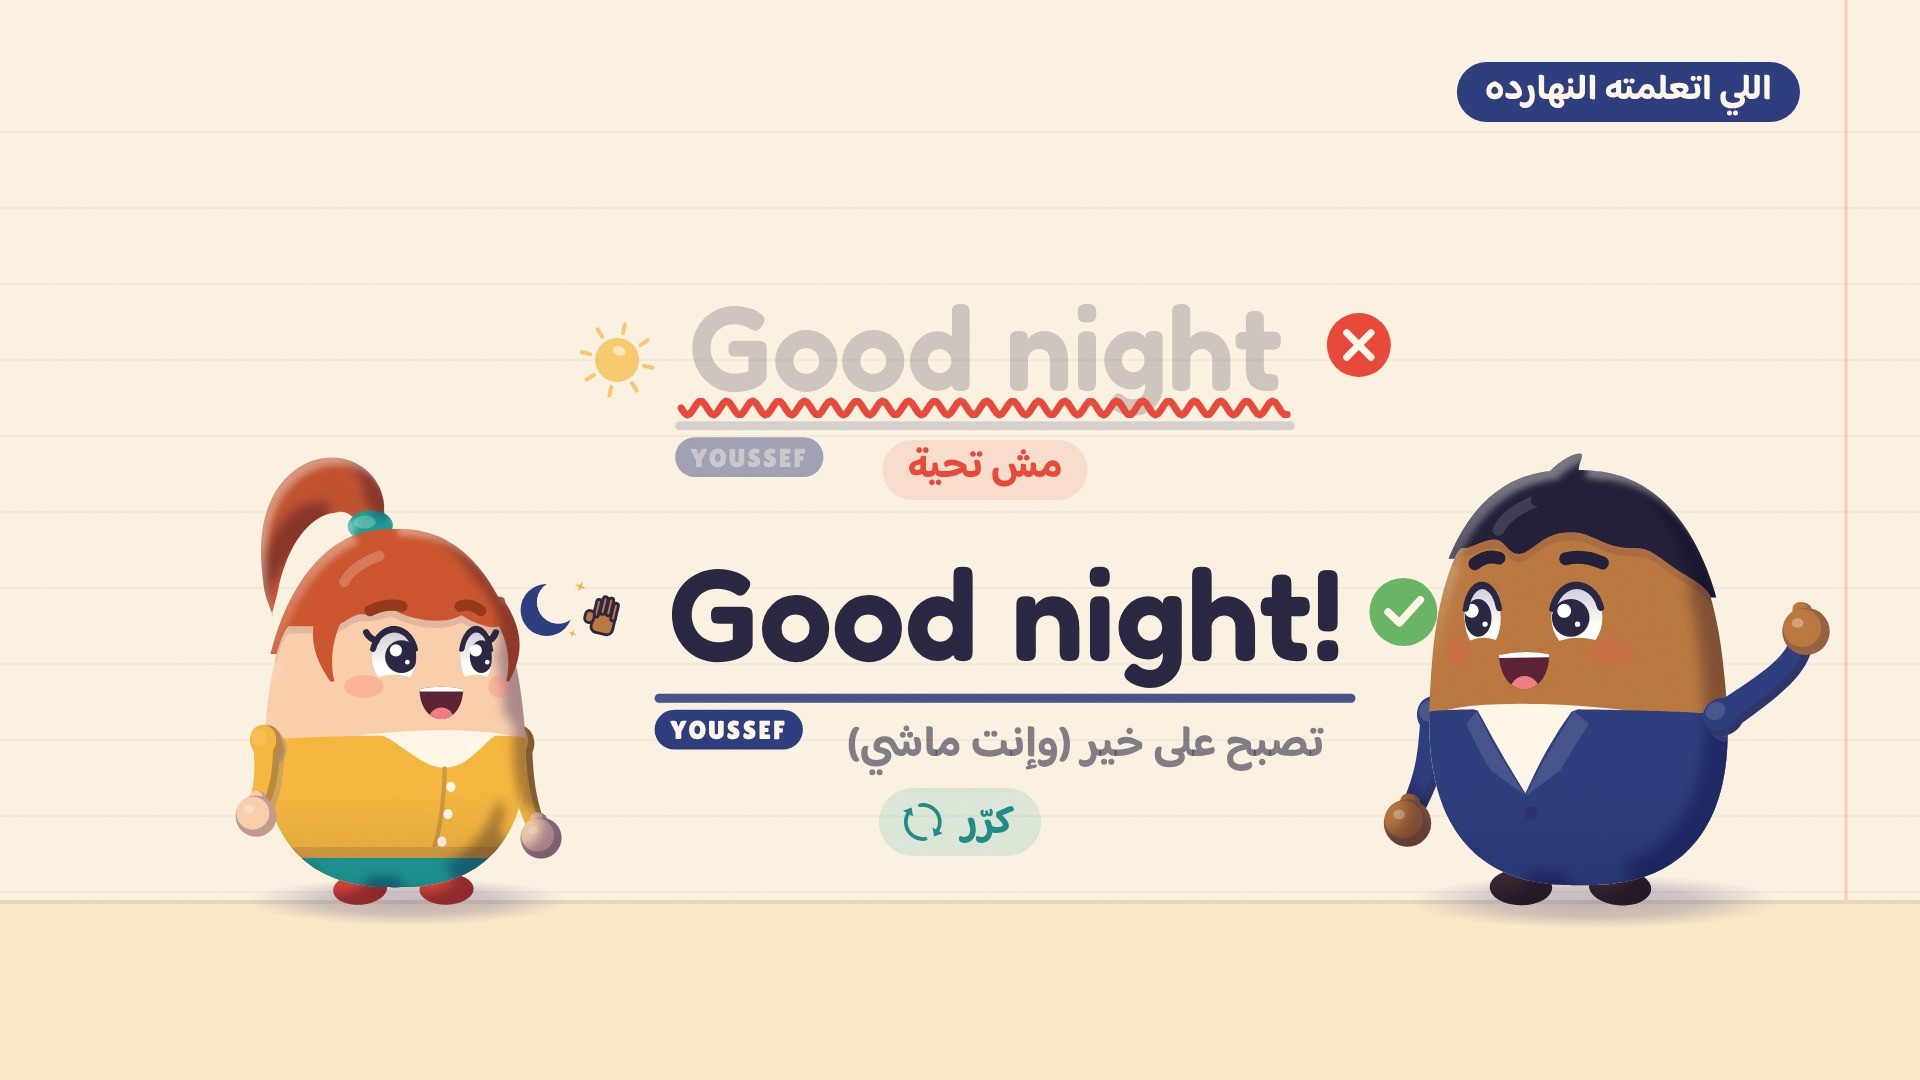
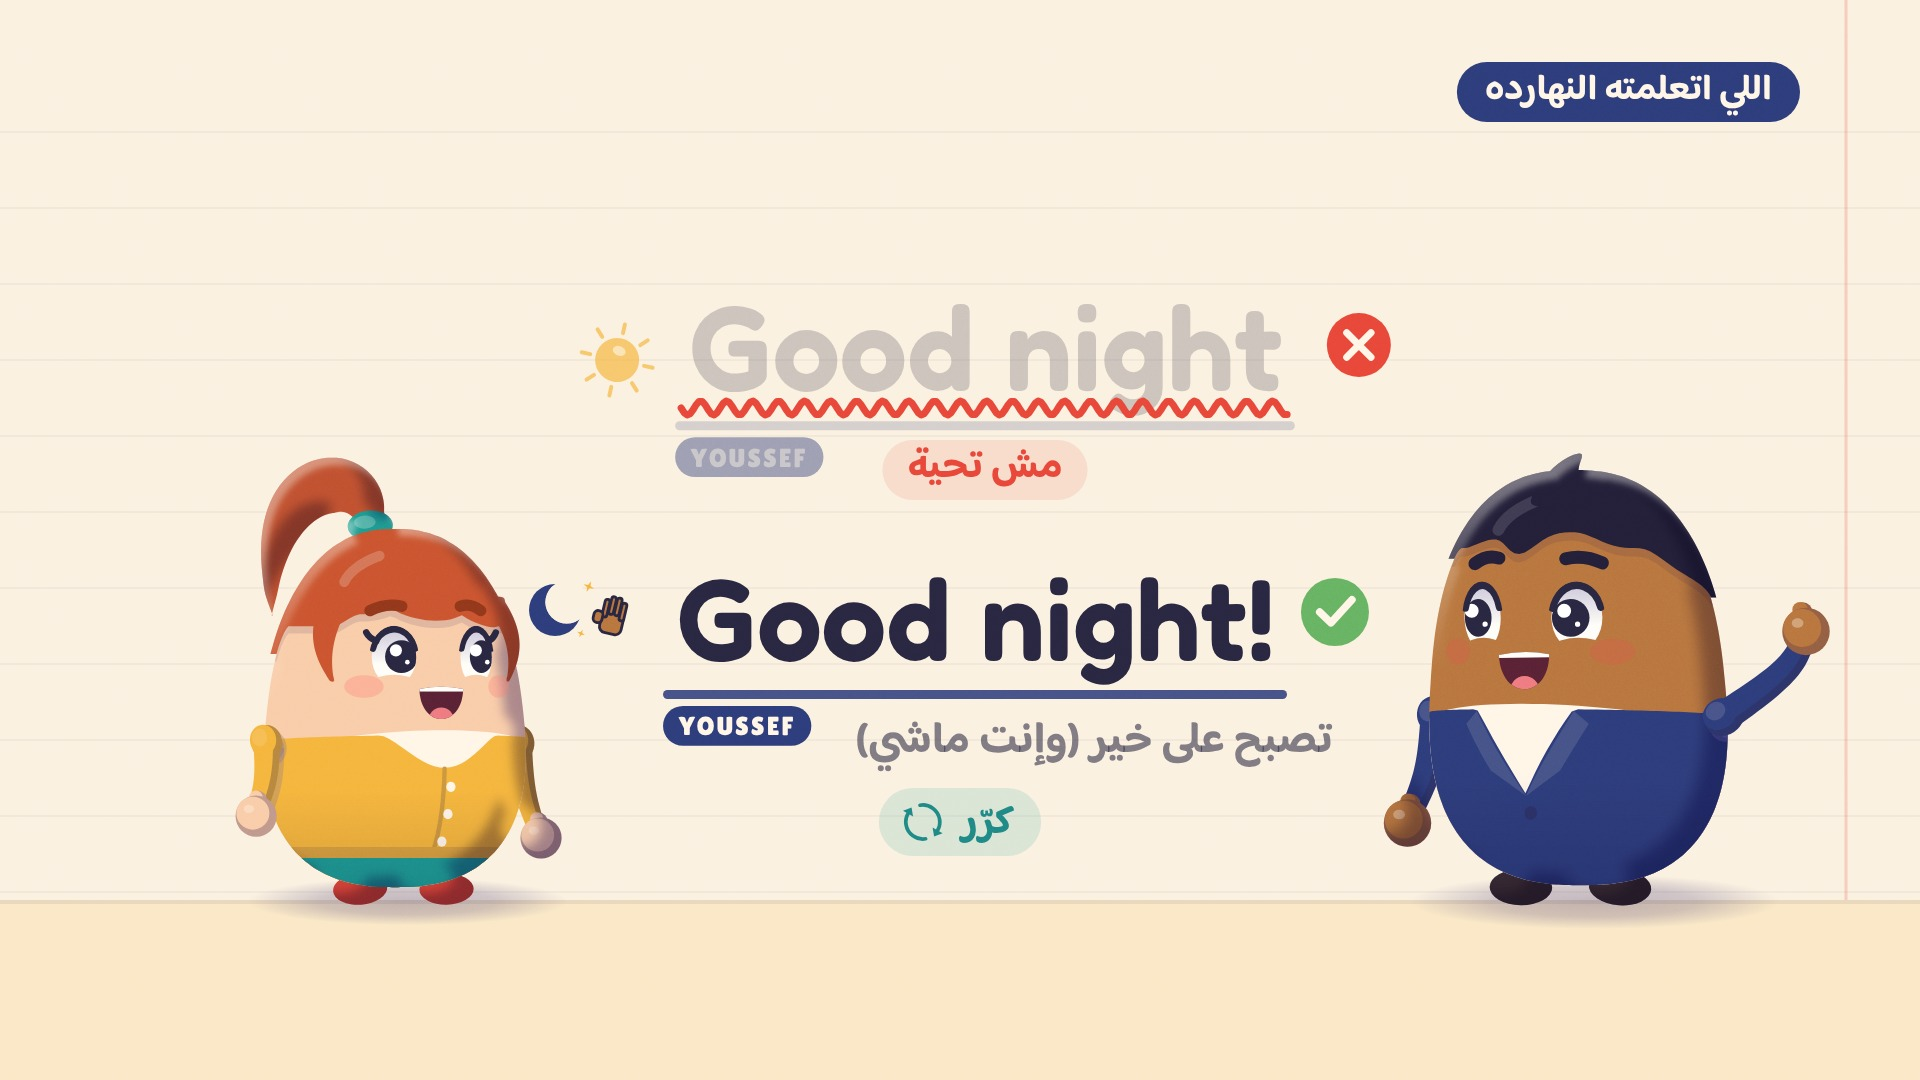
WIP: QA fixes, episodes 3–4 and site refresh in progress
Claude-Session: https://claude.ai/code/session_01Ey97nqMLT4oVRE1erYCZ22

Changed region(s): [[0.25, 0.5194, 0.75, 0.7333]]

diff --git a/production/ep03-the-form/recap.js b/production/ep03-the-form/recap.js
@@ -267,9 +267,9 @@ function numCard(c, x, y, w, h, num, word, { k = 1, ghost = 0, cur = 0, hi = nul
   rr(c, -w / 2, -h / 2 + 8, w, h, 22); c.fillStyle = rgba('#2A2742', .12); c.fill();
   rr(c, -w / 2, -h / 2, w, h, 22); c.fillStyle = cur > 0 ? mix('#FFFDF8', P.mustard, .35 * cur) : '#FFFDF8'; c.fill();
   c.strokeStyle = cur > 0 ? rgba(P.mustard, cur) : rgba(P.ink, .1); c.lineWidth = 4; c.stroke();
-  c.font = '400 84px "Lilita One"'; c.textAlign = 'center'; c.textBaseline = 'alphabetic'; c.fillStyle = P.navy; c.fillText(num, 0, h * .12);
+  c.font = `400 ${num.length > 2 ? 78 : 96}px "Lilita One"`; c.textAlign = 'center'; c.textBaseline = 'alphabetic'; c.fillStyle = P.navy; c.fillText(num, 0, h * .14);
   // the word, fitted to the card, with an optional coloured ending (-teen / -ty)
-  let fs = 30; c.font = `600 ${fs}px "Fredoka"`; let ww = c.measureText(word).width; if (ww > w - 16) { fs = fs * (w - 16) / ww; c.font = `600 ${fs}px "Fredoka"`; ww = c.measureText(word).width; }
+  let fs = 34; c.font = `600 ${fs}px "Fredoka"`; let ww = c.measureText(word).width; if (ww > w - 16) { fs = fs * (w - 16) / ww; c.font = `600 ${fs}px "Fredoka"`; ww = c.measureText(word).width; }
   const by = h * .38;
   if (hi) {
     const [i0, col] = hi, A = word.slice(0, i0), B = word.slice(i0), wa = c.measureText(A).width;
@@ -281,7 +281,7 @@ function numCard(c, x, y, w, h, num, word, { k = 1, ghost = 0, cur = 0, hi = nul
 }
 // a grid of number cards keyed to a counting line: map[i] = the token that says card i (or -1: shown muted from the start)
 function countGrid(c, t, a, it, nums, words, lineId, map, { hiFrom = null, hiCol = P.red, hiT = 1e9, rows = [5, 5] } = {}) {
-  const l = LINE(lineId), W = 140, Hc = 178, G = 18, ys = [360, 586];
+  const l = LINE(lineId), W = 150, Hc = 208, G = 18, ys = [370, 640];
   let n = 0;
   rows.forEach((cnt, r) => {
     const rowW = cnt * W + (cnt - 1) * G;
@@ -354,16 +354,16 @@ const ITEM = {
   age(c, t, a, it) {
     const q = fromLine('r05'), r05 = LINE('r05');
     const hi = seg(t, R.tHowOld - .1, R.tHowOld + .2) * (1 - seg(t, (r05 ? r05.t0 : R.tHowOld + 3) - .3, r05 ? r05.t0 : R.tHowOld + 3));
-    drawRow(c, t, q, { x: CX, y: 290, size: 104, who: 'mia', alpha: a, ghost: it.t0, mean: 'عندك كام سنة؟', meanHi: hi, meanSize: 44 });
+    drawRow(c, t, q, { x: CX - 20, y: 280, size: fit(q, 104, 740), who: 'mia', alpha: a, ghost: it.t0, mean: 'عندك كام سنة؟', meanHi: hi, meanSize: 44 });
     const s = seg(t, R.tSay - .1, R.tSay + .2);
     [['r06', 'عندي 26 سنة.'], ['r07', 'عندي 26 سنة. (نفس المعنى)']].forEach(([id, mean], i) => {
-      const items = fromLine(id), size = fit(items, 110, 800);
-      drawRow(c, t, items.map(o => ({ ...o, mark: /^I'm$/.test(o.w) ? eo(s) * (1 - seg(t, (LINE(id) ? LINE(id).t0 : 1e9) - .2, LINE(id) ? LINE(id).t0 : 1e9)) : 0 })), { x: CX, y: 500 + i * 200, size, who: 'youssef', alpha: a, ghost: it.t0 + .2, mean, meanSize: 40 });
+      const items = fromLine(id), size = fit(items, 110, 720);
+      drawRow(c, t, items.map(o => ({ ...o, mark: /^I'm$/.test(o.w) ? eo(s) * (1 - seg(t, (LINE(id) ? LINE(id).t0 : 1e9) - .2, LINE(id) ? LINE(id).t0 : 1e9)) : 0 })), { x: CX - 20, y: 500 + i * 200, size, who: 'youssef', alpha: a, ghost: it.t0 + .2, mean, meanSize: 40 });
     });
   },
   // the two mistakes, squiggled, each with its fix in leaf green
   wrong(c, t, a, it) {
-    const rows = [{ w: ['I', 'have', '26', 'years.'], t: R.tW1, y: 330, pill: 'ترجمة حرفية', fix: "I'm 26." }, { w: ["I'm", '26', 'years.'], t: R.tW2, y: 620, pill: 'ناقصة كلمة', fix: "I'm 26 years old." }];
+    const rows = [{ w: ['I', 'have', '26', 'years.'], t: R.tW1, y: 290, pill: 'ترجمة حرفية', fix: "I'm 26." }, { w: ["I'm", '26', 'years.'], t: R.tW2, y: 600, pill: 'ناقصة كلمة', fix: "I'm 26 years old." }];
     rows.forEach((r, i) => {
       const ra = a * seg(t, r.t - .05, r.t + .25); if (ra <= 0) return;
       const row = drawRow(c, t, r.w.map((w, j) => ({ w, t: r.t - .05 + j * .07 })), { x: CX, y: r.y, size: 110, who: 'youssef', alpha: ra });
@@ -378,7 +378,7 @@ const ITEM = {
       const fk = seg(t, R.tOld + .3 + i * .25, R.tOld + .6 + i * .25);
       if (fk > 0) {
         c.globalAlpha = ra * fk; c.font = FONT(84); c.textAlign = 'center'; c.textBaseline = 'alphabetic';
-        const fw = c.measureText(r.fix).width, fx = CX - 120, fy = r.y + 165;
+        const fw = c.measureText(r.fix).width, fx = CX - 90, fy = r.y + 175;
         c.fillStyle = P.leaf; c.fillText('→', fx - fw / 2 - 70, fy);
         rr(c, fx - fw / 2 - 12, fy - 66, (fw + 24) * eo(fk), 80, 18); c.fillStyle = rgba(P.leaf, .18); c.fill();
         c.fillStyle = dark(P.leaf, .35); c.fillText(r.fix, fx, fy);

diff --git a/production/ep02-good-morning/recap.js b/production/ep02-good-morning/recap.js
@@ -304,7 +304,7 @@ const ITEM = {
     // the right use: typeset on his line, moon + waving hand, ✓
     const okA = a * seg(t, R.tFarewell - .05, R.tFarewell + .25);
     if (okA > 0) {
-      const row = drawRow(c, t, fromLine('r04'), { x: CX + 20, y: 660, size: 130, who: 'youssef', alpha: okA, ghost: R.tFarewell, mean: 'تصبح على خير (وإنت ماشي)', meanSize: 44 });
+      const row = drawRow(c, t, fromLine('r04'), { x: CX - 10, y: 660, size: 130, who: 'youssef', alpha: okA, ghost: R.tFarewell, mean: 'تصبح على خير (وإنت ماشي)', meanSize: 44, maxW: COLW - 140 });   // room for the ✓ inside the column
       if (row) {
         c.save(); c.globalAlpha = okA;
         const ik = back(seg(t, R.tFarewell + .1, R.tFarewell + .5), 2);

diff --git a/production/ep03-the-form/outro.js b/production/ep03-the-form/outro.js
@@ -84,7 +84,7 @@ export function buildOutro() {
     { t: tMixed - .2, turn: 0, face: F('embarrassed', { lx: 0, ly: .2 }), armL: ARM.scratch, d: .25 });
   yN.jumps.push({ t: tMate - .05, h: .035, d: .32 }); yN.blinks.push(tFirst - .1, tMate - .1, tMixed - .2);
   O.yN = yN;
-  O.camN = [{ t: nx.t0 - 1, x: 560, y: 590, z: 1.45 }, { t: nx.t0, d: Math.max(1, bEnd - nx.t0), x: 520, y: 600, z: 1.6 }];
+  O.camN = [{ t: nx.t0 - 1, x: 600, y: 560, z: 1.38 }, { t: nx.t0, d: Math.max(1, bEnd - nx.t0), x: 560, y: 545, z: 1.45 }];
   // ---------------- cues ----------------
   cue(bT, 'sting', { note: 'title card' });
   cue(bT + .1, 'pop'); cue(bT + .45, 'pop'); cue(bT + .8, 'pop');
